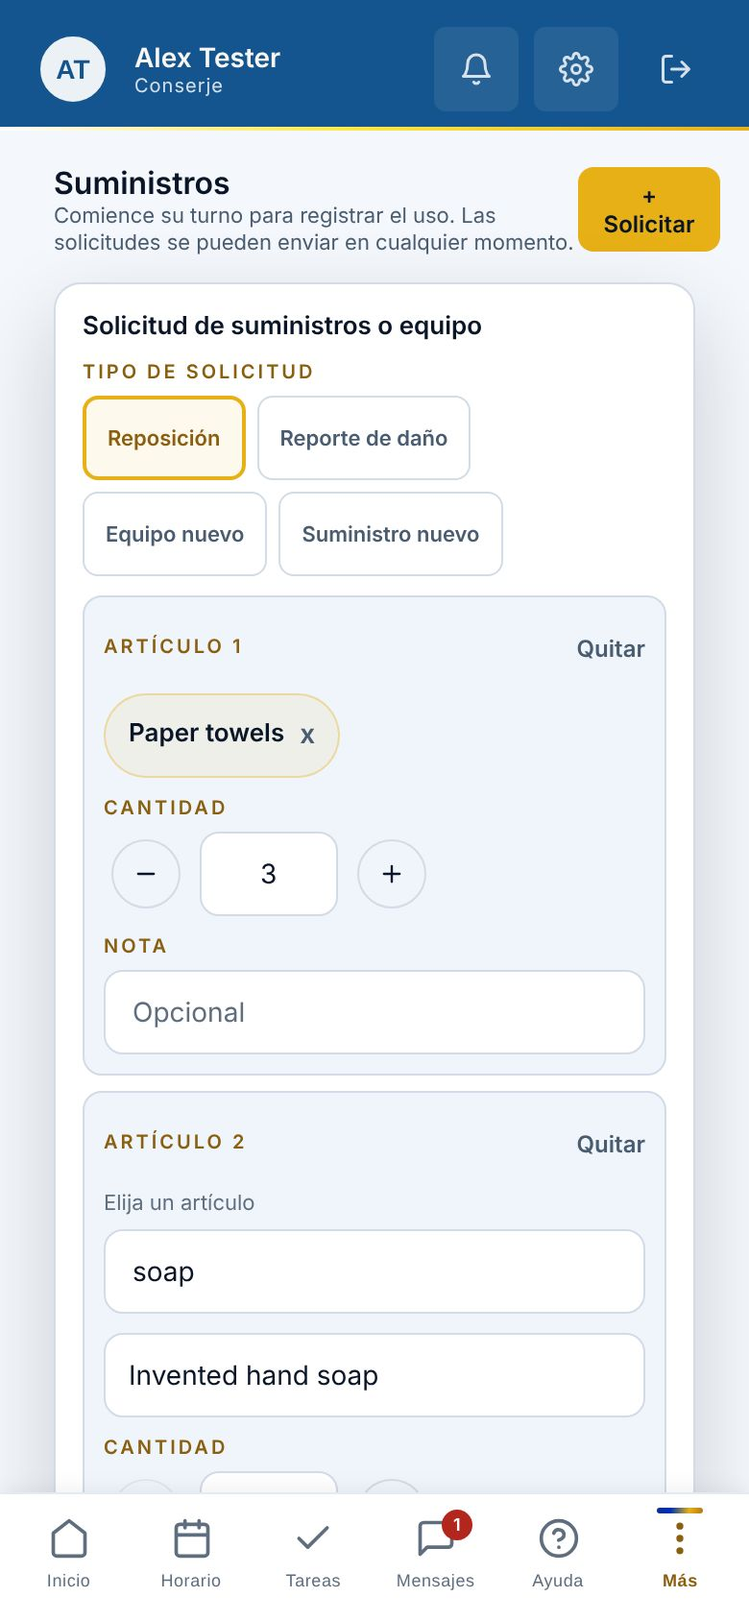
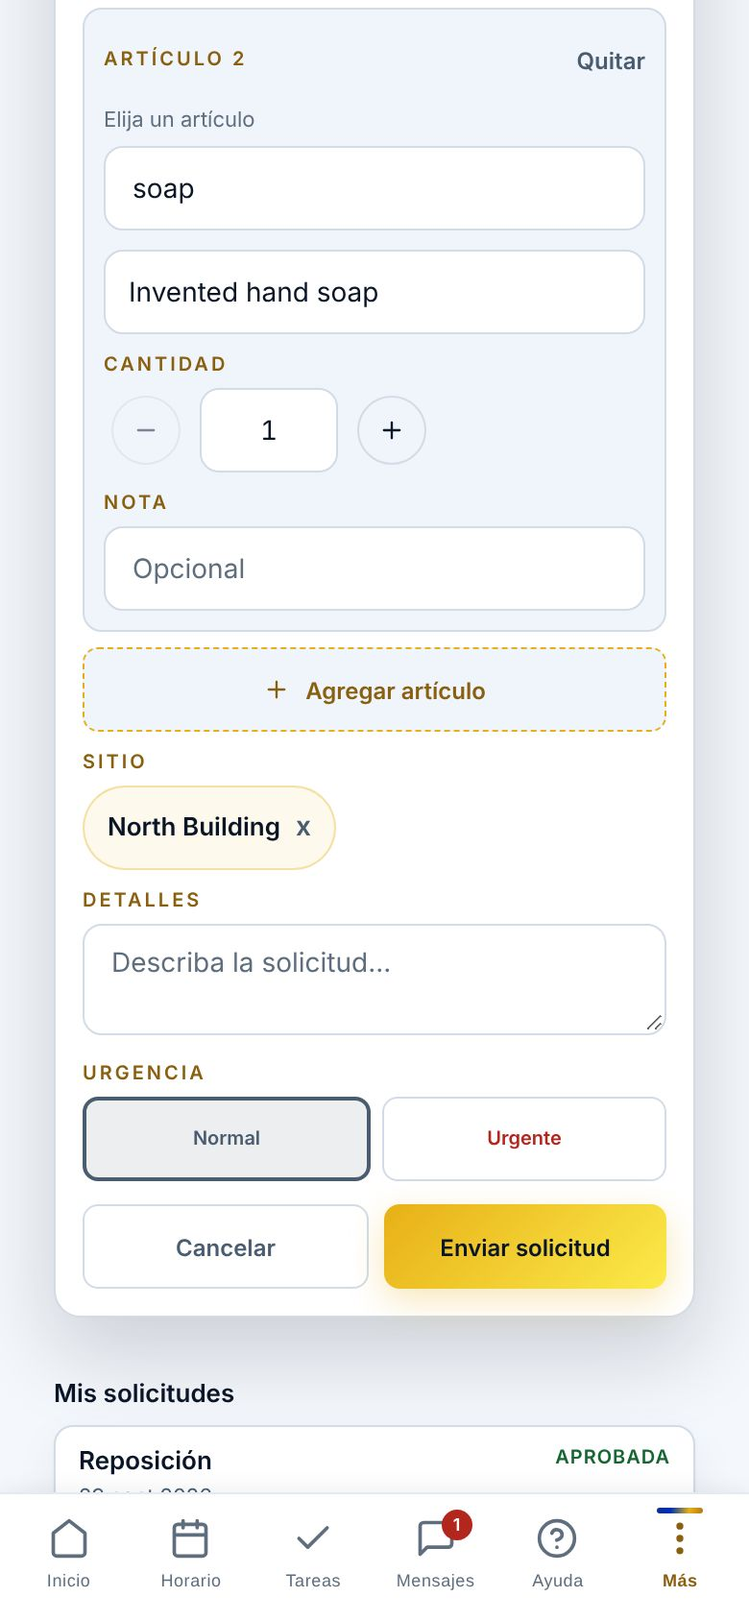
Help guide for this round's screens (part 408)
Each entry below is Last checked 2026-11-18, its pictures taken again in
English and Spanish:

- Uncheck a task checked by mistake: only a check made since the shift
  last started can be taken back; one made on an earlier shift stays and
  says so, and a refusal from OCSA shows under the task. New picture
  task-earlier-shift.
- Request supplies or report damaged gear: with no shift started the
  request names its site, filled in for one site and chosen from more.
  Picture supply-request shows the site.
- Start a message to someone in the office or on staff: a supervisor is
  offered the office alone, and only an admin opens or reads a staff
  member's private chat. Picture chat-new-message as an admin.
- Update your personal information or photo: a field emptied and saved
  reads Not set again, and a photo can be changed but not removed yet.
- Find and read a company document: a document with no Parts opens at
  its first section.
- Cancel a scheduled inspection, a new entry at the end: Cancel
  inspection under a row of My Inspections, asked first. New picture
  inspect-cancel.

Claude-Session: https://claude.ai/code/session_01NPM9dZ2CLGDhhZwCgeAEos

Changed region(s): [[0.0, 0.0, 1.0, 0.955], [0.7077, 0.8626, 0.8923, 0.955], [0.5538, 0.5237, 0.5846, 0.5545]]

diff --git a/audit/shots.js b/audit/shots.js
@@ -750,6 +750,17 @@ const SHOTS = [
       await s.pause(400);
       return s.mark("[data-shots-target]");
     } },
+  // Part 408: a check made on an earlier shift, tapped: the line under it
+  // says it stays checked.
+  { name: "task-earlier-shift", entry: E("Uncheck a task checked by mistake"), o: { signedIn: true, stub: { completions: [{ taskId: "task-1", userId: "u-one" }, { taskId: "task-3", userId: "u-one", at: NOW.getTime() - 4 * 60 * 60 * 1000 }], sessionStartedAt: new Date(NOW.getTime() - 3 * 60 * 60 * 1000).toISOString() } },
+    go: async (s) => {
+      if (!(await s.go("Tasks"))) return false;
+      if (!(await s.waitFor(() => !!document.querySelector('[data-task-box="task-3"]')))) return false;
+      await s.page.evaluate(() => { const b = document.querySelector('[data-task-box="task-3"]'); b.scrollIntoView({ block: "center" }); b.click(); });
+      if (!(await s.waitFor(() => !!document.querySelector('[data-task-note="task-3"]')))) return false;
+      await s.pause(400);
+      return s.mark('[data-task-row="task-3"]');
+    } },
   { name: "task-detail", entry: E("See a checklist task's details"), o: { signedIn: true },
     go: async (s) => {
       if (!(await s.go("Tasks"))) return false;
@@ -815,7 +826,7 @@ const SHOTS = [
     } },
   { name: "issues-list", entry: E("See the issues reported at your sites"), o: { signedIn: true, stub: { issueSheet: true, person: SUPERVISOR } },
     go: async (s) => { if (!(await s.go("Issues"))) return false; if (!(await s.waitFor(() => !!document.querySelector('[data-issue-row="iss-a1"] [data-issue-mine]')))) return false; await s.show(s.say("Issues")); return true; } },
-  { name: "supply-request", entry: E("Request supplies or report damaged gear"), o: { signedIn: true, stub: { clockedIn: false, supplyItems: true } },
+  { name: "supply-request", entry: E("Request supplies or report damaged gear"), o: { signedIn: true, stub: { clockedIn: false, supplyItems: true, mySites: true } },
     go: async (s) => {
       if (!(await s.go("Supplies"))) return false;
       await s.tap(s.say("+ Request"));
@@ -829,7 +840,13 @@ const SHOTS = [
       // The second item's supply narrowed by typing, before it is tapped.
       await s.fill('[data-supply-line-supply="1"] [data-pick-search]', "soap");
       if (!(await s.waitFor(() => document.querySelectorAll('[data-supply-line-supply="1"] [data-pick-row]').length === 1))) return false;
-      await s.top();
+      // Part 408: off the clock the request names its site, chosen here
+      // from the person's three.
+      if (!(await s.waitFor(() => !!document.querySelector('[data-supply-site] [data-pick-row="site-north"]')))) return false;
+      await s.page.click('[data-supply-site] [data-pick-row="site-north"]');
+      await s.pause(300);
+      await s.page.evaluate(() => { const d = document.querySelector("[data-supply-site]"); if (d) d.scrollIntoView({ block: "center" }); });
+      await s.pause(300);
       return true;
     } },
   { name: "supply-requests-mine", entry: E("Request supplies or report damaged gear"), o: { signedIn: true, stub: { clockedIn: false, supplyItems: true } },
@@ -856,6 +873,17 @@ const SHOTS = [
   // The stub gives a supervisor the permission to schedule one.
   { name: "inspection-schedule", entry: E("Schedule an inspection from the portal"), o: { signedIn: true, stub: { person: SUPERVISOR } },
     go: async (s) => { if (!(await s.go("Inspect"))) return false; await s.pause(600); await s.tap(s.say("+ Schedule")); return s.waitText(s.say("Schedule Inspection")); } },
+  // Part 408: Cancel inspection under a scheduled inspection, asked first.
+  { name: "inspect-cancel", entry: E("Cancel a scheduled inspection"), o: { signedIn: true, stub: { person: SUPERVISOR, scheduleInspections: true } },
+    go: async (s) => {
+      if (!(await s.go("Inspect"))) return false;
+      if (!(await s.waitFor(() => !!document.querySelector('[data-inspect-cancel="in-s1"]')))) return false;
+      await s.page.evaluate(() => { const b = document.querySelector('[data-inspect-cancel="in-s1"]'); b.click(); });
+      if (!(await s.waitFor(() => !!document.querySelector('[data-inspect-cancel-ask="in-s1"]')))) return false;
+      await s.page.evaluate(() => { const d = document.querySelector('[data-inspect-row="in-s1"]'); if (d) d.scrollIntoView({ block: "center" }); });
+      await s.pause(400);
+      return s.mark('[data-inspect-cancel-ask="in-s1"]');
+    } },
   // Step 335: Start an inspection at a site with one template, and at one
   // with two, which asks which.
   { name: "inspection-start", entry: E("Start an inspection without a schedule"), o: { signedIn: true, stub: { person: SUPERVISOR, startInspection: true } },
@@ -883,8 +911,10 @@ const SHOTS = [
     go: async (s) => { if (!(await s.go("Chat"))) return false; return s.waitText(s.say("No chats are set up for you yet. Ask your supervisor.")); } },
   { name: "chat-tag", entry: E("Tag someone in a chat"), o: { signedIn: true },
     go: async (s) => { if (!(await s.go("Chat"))) return false; await s.pause(900); await s.tap("North Building"); await s.pause(900); await s.tapLabel(s.say("Tag someone")); return s.waitText(s.say("Tag someone")); } },
-  { name: "chat-new-message", entry: E("Start a message to someone in the office or on staff"), o: { signedIn: true, stub: { person: SUPERVISOR, chatPeopleRoute: true } },
-    go: async (s) => { if (!(await s.go("Chat"))) return false; if (!(await s.waitText(s.say("New message")))) return false; await s.tap(s.say("New message")); return s.waitText(s.say("Office")); } },
+  // Part 408: as an admin, who is offered the office and staff; a
+  // supervisor is offered the office alone.
+  { name: "chat-new-message", entry: E("Start a message to someone in the office or on staff"), o: { signedIn: true, stub: { person: ADMIN_PERSON, chatPeopleRoute: true } },
+    go: async (s) => { if (!(await s.go("Chat"))) return false; if (!(await s.waitText(s.say("New message")))) return false; await s.tap(s.say("New message")); return s.waitText(s.say("Staff")); } },
 
   // Notices, Settings and the app itself.
   // Step 336: a case assigned, which offers Open in the dashboard, a shift

diff --git a/guide/APP-PORTAL.md b/guide/APP-PORTAL.md
@@ -112,13 +112,14 @@ Picture: tasks-reference
 Last checked: 2026-11-09
 
 ## Uncheck a task checked by mistake (staff portal)
-Who can do this: the person who checked it, the same day
+Who can do this: the person who checked it, on the same shift
 1. Tap **Tasks** (**Tareas**) (**Tâches**).
 2. Tap the green box next to the task to uncheck it, or open the task and tap **Uncheck Task** (**Desmarcar tarea**) (**Décocher la tâche**). **Task unchecked** (**Tarea desmarcada**) (**Tâche décochée**) says it was.
-Only a check you made today can be taken back. Tapping a coworker's check leaves it in place and shows **Only the person who checked this can uncheck it.** (**Solo la persona que marcó esta tarea puede desmarcarla.**) (**Seule la personne qui a coché cette tâche peut la décocher.**) under the task; ask them, or your supervisor. Opening a coworker's check from its name shows who checked it and the same line, with no **Uncheck Task** (**Desmarcar tarea**) (**Décocher la tâche**). Weekly, monthly and other repeating work done on an earlier day cannot be unchecked here.
-Words people use for this: undo a check, i checked the wrong one, uncheck, take back a check.
+Only a check you made since you last started your shift can be taken back. A check you made on an earlier shift, before you ended it and started again, stays: tapping it shows **You checked this on an earlier shift. It stays checked.** (**Usted marcó esta tarea en un turno anterior. Sigue marcada.**) (**Vous avez coché cette tâche lors d'un service précédent. Elle reste cochée.**) under the task, and opening it shows the same line with no **Uncheck Task** (**Desmarcar tarea**) (**Décocher la tâche**). If OCSA turns an uncheck away, its words show under the task and the box stays checked. Tapping a coworker's check leaves it in place and shows **Only the person who checked this can uncheck it.** (**Solo la persona que marcó esta tarea puede desmarcarla.**) (**Seule la personne qui a coché cette tâche peut la décocher.**) under the task; ask them, or your supervisor. Opening a coworker's check from its name shows who checked it and the same line, with no **Uncheck Task** (**Desmarcar tarea**) (**Décocher la tâche**). Weekly, monthly and other repeating work done on an earlier day cannot be unchecked here.
+Words people use for this: undo a check, i checked the wrong one, uncheck, take back a check, it stays checked, earlier shift.
 Picture: task-uncheck
-Last checked: 2026-11-09
+Picture: task-earlier-shift
+Last checked: 2026-11-18
 
 ## See your schedule (staff portal)
 Who can do this: anyone signed in
@@ -218,13 +219,14 @@ Who can do this: anyone signed in, with or without a shift started
 4. For a refill, new gear or a new supply, list each thing you need as its own item. For a refill, type part of its name in **Search by name** (**Buscar por nombre**) (**Rechercher par nom**) under **Supply Item** (**Artículo**) (**Article**) and tap it; **No supply matches that name.** (**Ningún artículo coincide con ese nombre.**) (**Aucun article ne correspond à ce nom.**) means the site has none by that name; for new gear or a new supply, type it under **Item Name** (**Nombre del artículo**) (**Nom de l'article**). Set its **Quantity** (**Cantidad**) (**Quantité**): type the number, or tap minus and plus. It starts at 1 and goes up to 999. Write a **Note** (**Nota**) (**Note**) for that item if you want. Tap **Add item** (**Agregar artículo**) (**Ajouter un article**) for the next one, up to 30 in one request, and **Remove** (**Quitar**) (**Retirer**) takes an item off.
 5. For a damage report, choose the one item under **Supply Item** (**Artículo**) (**Article**) the same way.
 6. Describe the whole request under **Details** (**Detalles**) (**Détails**) if you want. Under **Urgency** (**Urgencia**) (**Urgence**), tap how urgent it is. It starts on **Normal** (**Normal**) (**Normale**).
-7. Tap **Submit Request** (**Enviar solicitud**) (**Envoyer la demande**). Every item goes in one request. The form closes, and **Request submitted** (**Solicitud enviada**) (**Demande envoyée**) says it went. You get a notice when it is approved or denied.
-8. Your 10 newest requests show under **My requests** (**Mis solicitudes**) (**Mes demandes**), each item with its quantity. Once the office decides an item, it reads **Approved {n} of {m}** (**Aprobado: {n} de {m}**) (**Approuvé : {n} sur {m}**), the number approved of the number you asked for, or **Denied** (**Denegada**) (**Refusée**) with the office's note.
-If it does not work: **Select a request type** (**Elija un tipo de solicitud**) (**Choisissez un type de demande**) says what is missing. Under an item, **Choose a supply** (**Elija un artículo**) (**Choisissez un article**), **Enter the item name** (**Escriba el nombre del artículo**) (**Entrez le nom de l'article**) or **Enter a quantity from 1 to 999.** (**Escriba una cantidad de 1 a 999.**) (**Entrez une quantité de 1 à 999.**) says what to fix. At 30 items, **A request holds up to 30 items.** (**Una solicitud lleva hasta 30 artículos.**) (**Une demande compte au plus 30 articles.**) shows under **Add item** (**Agregar artículo**) (**Ajouter un article**): send these and start another request. If OCSA turns the request away, the reason shows under the item it is about, or above **Submit Request** (**Enviar solicitud**) (**Envoyer la demande**), and the form stays open to fix it. For a damage report, the reason shows at the top of the screen and the form has closed: tap **+ Request** (**+ Solicitar**) (**+ Demander**) and fill it in again. **Cancel** (**Cancelar**) (**Annuler**) closes the form without sending.
-Words people use for this: i need supplies, out of trash bags, need gloves, order supplies, broken vacuum, need a mop, more than one item, several items, how many, quantity, did my request get approved, necesito suministros, pedir suministros, varios artículos, cantidad.
+7. With no shift started, the request names its site under **Site** (**Sitio**) (**Site**). When you work at one site it is filled in for you; with more than one, type part of its name in **Search by name** (**Buscar por nombre**) (**Rechercher par nom**) and tap it. With a shift started, the request is for your shift's site.
+8. Tap **Submit Request** (**Enviar solicitud**) (**Envoyer la demande**). Every item goes in one request. The form closes, and **Request submitted** (**Solicitud enviada**) (**Demande envoyée**) says it went. You get a notice when it is approved or denied.
+9. Your 10 newest requests show under **My requests** (**Mis solicitudes**) (**Mes demandes**), each item with its quantity. Once the office decides an item, it reads **Approved {n} of {m}** (**Aprobado: {n} de {m}**) (**Approuvé : {n} sur {m}**), the number approved of the number you asked for, or **Denied** (**Denegada**) (**Refusée**) with the office's note.
+If it does not work: **Select a request type** (**Elija un tipo de solicitud**) (**Choisissez un type de demande**) says what is missing, and **Choose a site first.** (**Elija primero un sitio.**) (**Choisissez d'abord un site.**) under **Site** (**Sitio**) (**Site**) means no site is chosen yet. Under an item, **Choose a supply** (**Elija un artículo**) (**Choisissez un article**), **Enter the item name** (**Escriba el nombre del artículo**) (**Entrez le nom de l'article**) or **Enter a quantity from 1 to 999.** (**Escriba una cantidad de 1 a 999.**) (**Entrez une quantité de 1 à 999.**) says what to fix. At 30 items, **A request holds up to 30 items.** (**Una solicitud lleva hasta 30 artículos.**) (**Une demande compte au plus 30 articles.**) shows under **Add item** (**Agregar artículo**) (**Ajouter un article**): send these and start another request. If OCSA turns the request away, the reason shows under the item it is about, or above **Submit Request** (**Enviar solicitud**) (**Envoyer la demande**), and the form stays open to fix it. For a damage report, the reason shows at the top of the screen and the form has closed: tap **+ Request** (**+ Solicitar**) (**+ Demander**) and fill it in again. **Cancel** (**Cancelar**) (**Annuler**) closes the form without sending.
+Words people use for this: i need supplies, which site, not on shift, out of trash bags, need gloves, order supplies, broken vacuum, need a mop, more than one item, several items, how many, quantity, did my request get approved, necesito suministros, pedir suministros, varios artículos, cantidad.
 Picture: supply-request
 Picture: supply-requests-mine
-Last checked: 2026-10-07
+Last checked: 2026-11-18
 
 ## Log supplies you used (staff portal)
 Who can do this: anyone with a shift started
@@ -497,14 +499,14 @@ Last checked: 2026-10-07
 ## Update your personal information or photo (staff portal)
 Who can do this: anyone signed in
 1. Tap your picture or initials at the top left, whose spoken label is **Profile** (**Perfil**) (**Profil**), to open your profile.
-2. To change your photo, tap the camera on your picture and take or choose one. An iPhone photo is changed to a normal picture first, and every photo is made smaller on the phone before it is sent; while one is uploading, the camera waits. **Photo updated** (**Foto actualizada**) (**Photo mise à jour**) says it is saved.
-3. Under **Personal Information** (**Información personal**) (**Informations personnelles**), tap **Edit** (**Editar**) (**Modifier**). You can change your **Birthday** (**Fecha de nacimiento**) (**Date de naissance**), your address, your **Emergency Contact** (**Contacto de emergencia**) (**Contact d'urgence**) and their **Emergency Phone** (**Teléfono de emergencia**) (**Téléphone d'urgence**). None of them is required.
+2. To change your photo, tap the camera on your picture and take or choose one. An iPhone photo is changed to a normal picture first, and every photo is made smaller on the phone before it is sent; while one is uploading, the camera waits. **Photo updated** (**Foto actualizada**) (**Photo mise à jour**) says it is saved. A photo can be changed here but not removed yet.
+3. Under **Personal Information** (**Información personal**) (**Informations personnelles**), tap **Edit** (**Editar**) (**Modifier**). You can change your **Birthday** (**Fecha de nacimiento**) (**Date de naissance**), your address, your **Emergency Contact** (**Contacto de emergencia**) (**Contact d'urgence**) and their **Emergency Phone** (**Teléfono de emergencia**) (**Téléphone d'urgence**). None of them is required: to clear one, empty its box and save, and it reads Not set again.
 4. Tap **Save** (**Guardar**) (**Enregistrer**). **Profile updated** (**Perfil actualizado**) (**Profil mis à jour**) says it worked. Only what you changed is sent. **Cancel** (**Cancelar**) (**Annuler**) leaves without changing anything. Until you tap one of them, what you changed stays on this phone, even if the app closes: open your profile again and you are still editing. Signing out drops them.
 Your name, role, phone number, email, **Employee ID** (**ID de empleado**) (**Matricule**) and **Badge Number** (**Número de empleado**) (**Numéro de badge**) show on your profile and cannot be changed there. Ask your supervisor to change them.
 If it does not work: **This photo could not be read. Try another one.** (**No se pudo leer esta foto. Intente con otra.**) (**Cette photo n'a pas pu être lue. Essayez-en une autre.**) means the phone could not open that picture; choose another one. A photo still over 20 MB once it is made smaller is turned away with **Photo must be under 20MB** (**La foto debe pesar menos de 20 MB**) (**La photo doit faire moins de 20 Mo**); choose a smaller one.
 Words people use for this: change my address, change my phone number, emergency contact, update my info, my profile picture.
 Picture: profile
-Last checked: 2026-11-10
+Last checked: 2026-11-18
 
 ## Request time off (staff portal)
 Who can do this: anyone signed in
@@ -983,15 +985,15 @@ Last checked: 2026-11-11
 ## Start a message to someone in the office or on staff (staff portal)
 Who can do this: admins and supervisors
 1. Tap **Chat** (**Mensajes**) (**Messages**), then **New message** (**Nuevo mensaje**) (**Nouveau message**) above the chats.
-2. The list shows the office under **Office** (**Oficina**) (**Bureau**) and everyone else under **Staff** (**Personal**) (**Personnel**), each with their role. Type part of a name in **Search by name** (**Buscar por nombre**) (**Rechercher par nom**) to narrow it.
+2. The list shows the office under **Office** (**Oficina**) (**Bureau**), each with their role. An admin also sees everyone else under **Staff** (**Personal**) (**Personnel**); a supervisor sees the office alone, since only an admin opens a staff member's private chat. Type part of a name in **Search by name** (**Buscar por nombre**) (**Rechercher par nom**) to narrow it.
 3. Tap an office person to open the direct message the two of you share. It shows under **Direct messages** (**Mensajes directos**) (**Messages directs**), named for that person, and opening it again later takes you back to the same chat.
-4. Tap a staff member to open their private chat with the office, under **Private chats** (**Chats privados**) (**Discussions privées**). They read it as **Admin (Private)** (**Administración (privado)**) (**Administration (privé)**), and every admin and supervisor can read and answer it.
+4. An admin taps a staff member to open their private chat with the office, under **Private chats** (**Chats privados**) (**Discussions privées**). They read it as **Admin (Private)** (**Administración (privado)**) (**Administration (privé)**), and every admin can read and answer it.
 5. Type your message and tap the arrow beside the box. The other person gets an alert the way every chat alerts. A direct message has no @ button, since every message in it already alerts the other person.
 Staff do not have **New message** (**Nuevo mensaje**) (**Nouveau message**); they write to the office in **Admin (Private)** (**Administración (privado)**) (**Administration (privé)**).
 If it does not work: **No one matches that name.** (**Nadie tiene ese nombre.**) (**Aucune personne ne correspond à ce nom.**) means nobody on the list has that name; check the spelling or type less of it. If a chat does not open, the list stays up with a line saying why, in OCSA's words or **That chat did not open. Try again.** (**Ese chat no se abrió. Intente de nuevo.**) (**Cette discussion ne s'est pas ouverte. Réessayez.**); tap the name again. **Close** (**Cerrar**) (**Fermer**) leaves the list. If **New message** (**Nuevo mensaje**) (**Nouveau message**) is not there, open another tab and come back to Chat; it shows once the list of people loads.
 Words people use for this: message another admin, message a supervisor, direct message, dm, new message, start a chat, write to a staff member first, find someone by name, message the office, nuevo mensaje, mensaje nuevo, mensaje directo.
 Picture: chat-new-message
-Last checked: 2026-10-02
+Last checked: 2026-11-18
 
 ## Find a safety data sheet (staff portal)
 Who can do this: anyone, signed in or not
@@ -1422,14 +1424,14 @@ Who can do this: anyone signed in
 1. Tap **More** (**Más**) (**Plus**), then **Library** (**Biblioteca**) (**Bibliothèque**). Every company document is there, sorted into folders such as Quality, Human Resources and Health and Safety, each with how many documents it holds. Everyone can read every document.
 2. Tap a folder. Each document shows its number, its version, such as **Version {n}** (**Versión {n}**) (**Version {n}**), and its title. **Also in Spanish** (**También en español**) (**Aussi en espagnol**) means it has a Spanish edition; on a Spanish screen, **In English only** (**Solo en inglés**) (**En anglais seulement**) means it has none yet. **All folders** (**Todas las carpetas**) (**Tous les dossiers**) goes back to the folders.
 3. To find a document, type in **Search by number, title or words in the text** (**Buscar por número, título o palabras del texto**) (**Rechercher par numéro, titre ou mots du texte**) at the top: its number, part of its title, or words that are in its text. Each result shows the section the words were found in, as **Section {n}** (**Sección {n}**) (**Section {n}**) and the section's name. Tap a result and the document opens at that section. **Clear** (**Borrar**) (**Effacer**) empties the box.
-4. A document opens read only, in your screen's language when it has an edition in it. A document with Parts opens on its cover, and **Contents** (**Contenido**) (**Sommaire**), **Start reading** (**Empezar a leer**) (**Commencer la lecture**), **Next** (**Siguiente**) (**Suivant**) and **Back** (**Atrás**) (**Retour**) work the way they do in My training (see Read and sign a document). **See the designed version** (**Ver la versión diseñada**) (**Voir la version mise en page**) opens the printed version as a PDF. There is no signature box in the Library, and nothing is signed here.
+4. A document opens read only, in your screen's language when it has an edition in it. A document with Parts opens on its cover, and **Contents** (**Contenido**) (**Sommaire**), **Start reading** (**Empezar a leer**) (**Commencer la lecture**), **Next** (**Siguiente**) (**Suivant**) and **Back** (**Atrás**) (**Retour**) work the way they do in My training (see Read and sign a document). A document with no Parts opens at its first section and reads a section at a time, with **Contents** (**Contenido**) (**Sommaire**), **Next** (**Siguiente**) (**Suivant**) and **Back** (**Atrás**) (**Retour**). **See the designed version** (**Ver la versión diseñada**) (**Voir la version mise en page**) opens the printed version as a PDF. There is no signature box in the Library, and nothing is signed here.
 5. A document you still have to sign says **This document is waiting for your signature.** (**Este documento espera su firma.**) (**Ce document attend votre signature.**): tap **Open in Documents to sign** (**Abrir en Documentos por firmar**) (**Ouvrir dans Documents à signer**) to read and sign it under My training.
 6. **Library** (**Biblioteca**) (**Bibliothèque**) at the top of a document goes back to the list.
 If it does not work: **The library is loading. Check back soon.** (**La biblioteca se está cargando. Vuelva a revisar pronto.**) (**La bibliothèque est en cours de chargement. Revenez bientôt.**) means OCSA has not loaded the documents yet. **This list did not load.** (**Esta lista no se cargó.**) (**Cette liste ne s'est pas chargée.**) means the list did not come when the Library opened; tap **Try again** (**Intentar de nuevo**) (**Réessayer**). **No document matches that search.** (**Ningún documento coincide con esa búsqueda.**) (**Aucun document ne correspond à cette recherche.**) means no document has those words; try fewer words or the number. **This document is shown in English.** (**Este documento se muestra en inglés.**) (**Ce document est affiché en anglais.**) means it has no edition in your language yet.
 Words people use for this: library, company documents, find a document, read a policy, read a procedure, what does the procedure say, document number, where are the documents, biblioteca, documentos de la compañía, buscar un documento, bibliothèque.
 Picture: library
 Picture: library-search
-Last checked: 2026-11-12
+Last checked: 2026-11-18
 
 ## Ask Help what a document covers (staff portal)
 Who can do this: anyone signed in
@@ -1629,3 +1631,14 @@ If it does not work: **Say what was covered.** (**Indique qué se trató.**) (**
 Words people use for this: findings to follow up, follow up a finding, choose training for a finding, record a conversation, coaching, finding with no follow-up, late follow-up, seguimiento de hallazgos, registrar la conversación.
 Picture: findings-follow-up
 Last checked: 2026-11-12
+
+## Cancel a scheduled inspection (staff portal)
+Who can do this: anyone an admin has given the permission to schedule inspections, the same people who see **+ Schedule** (**+ Programar**) (**+ Planifier**)
+1. Tap **More** (**Más**) (**Plus**), then **Inspect** (**Inspección**) (**Inspection**).
+2. Under **My Inspections** (**Mis inspecciones**) (**Mes inspections**), find the inspection. Under it, tap **Cancel inspection** (**Cancelar inspección**) (**Annuler l'inspection**).
+3. **Cancel this inspection?** (**¿Cancelar esta inspección?**) (**Annuler cette inspection ?**) asks first. Tap **Cancel inspection** (**Cancelar inspección**) (**Annuler l'inspection**) again to cancel it, or **Keep it** (**Conservarla**) (**La garder**) to leave it as it is.
+4. **Inspection cancelled** (**Inspección cancelada**) (**Inspection annulée**) says it is done, and it leaves the list. A safety walk already started for it is set aside with it.
+If it does not work: **Not cancelled yet. Check your signal and try again.** (**Todavía no se canceló. Revise su señal e intente de nuevo.**) (**Pas encore annulée. Vérifiez votre réseau et réessayez.**) means the phone could not reach OCSA; tap **Cancel inspection** (**Cancelar inspección**) (**Annuler l'inspection**) again when you have signal. A completed inspection cannot be cancelled, and OCSA's words under it say so. If you do not see **Cancel inspection** (**Cancelar inspección**) (**Annuler l'inspection**), ask an admin for the permission to schedule inspections.
+Words people use for this: cancel an inspection, remove an inspection, delete a scheduled inspection, take an inspection off my list, cancelar inspección, annuler une inspection.
+Picture: inspect-cancel
+Last checked: 2026-11-18
